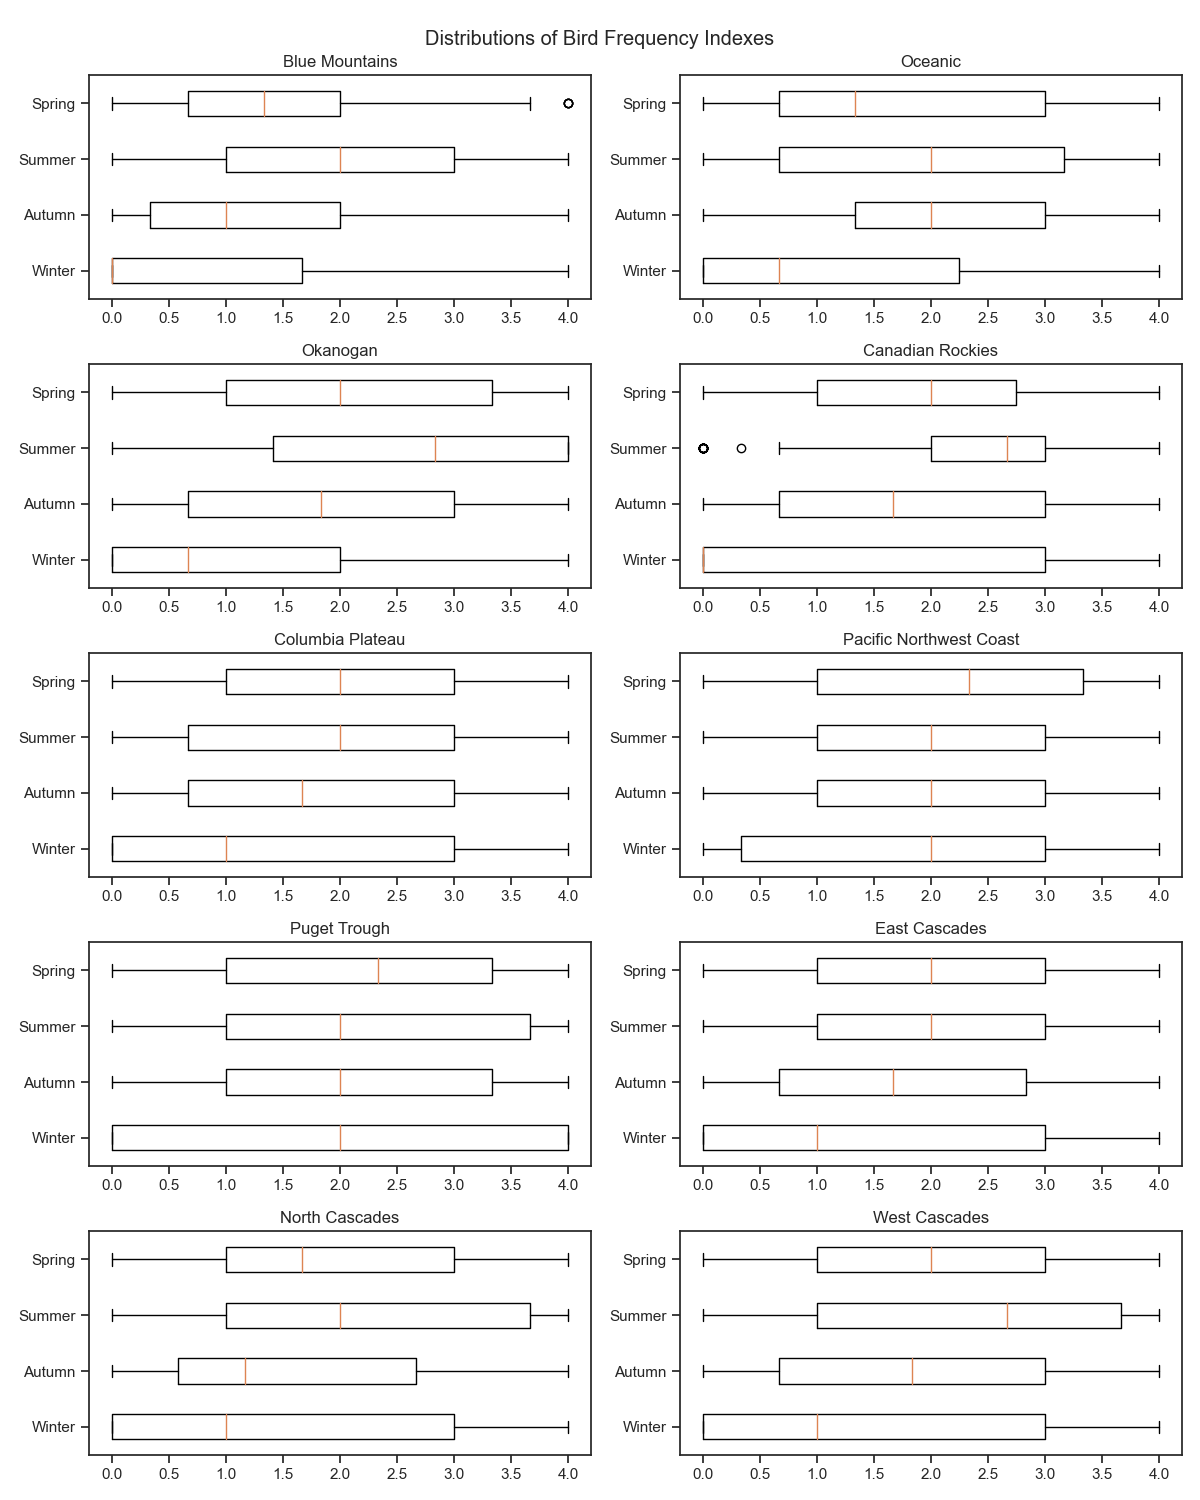
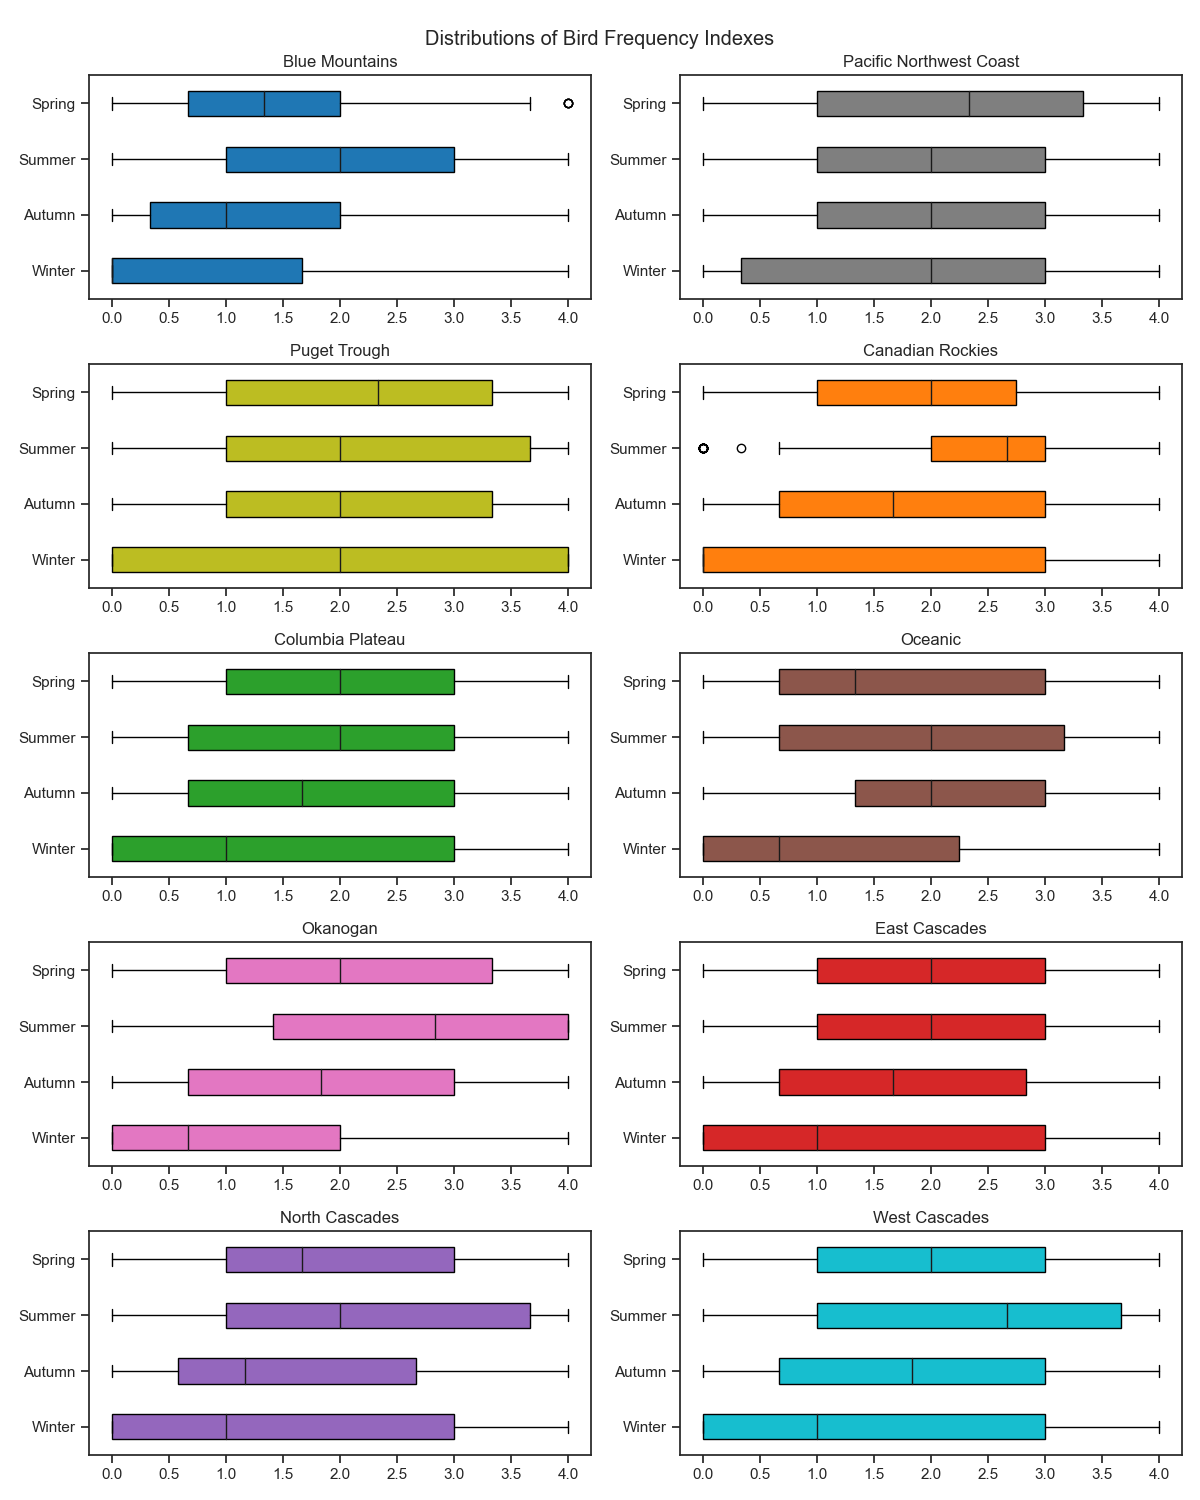
colored boxplot

diff --git a/src/bird_and_diet_diversity.py b/src/bird_and_diet_diversity.py
@@ -9,7 +9,7 @@ import matplotlib.pyplot as plt
 import seaborn as sns
 import math
 import numpy as np
-from utils.constants import MONTHS, ABUNDANCES, SEASONS
+from utils.constants import MONTHS, ABUNDANCES, SEASONS, ECOREGIONS
 
 BIRD_LOCS = 'data/bird-locations.csv'
 BIRD_DIETS = 'data/bird-diets-by-order.csv'
@@ -184,37 +184,44 @@ def plot_seasonal_bird_diversity(locations: pd.DataFrame) -> None:
 
 
 def plot_bfi_box_plot(locations: pd.DataFrame) -> None:
+    """
+    Accepts an input DataFrame of birds and their locational abundances
+    and plots distributions of bird frequency indexes in each
+    ecoregion in each season. Saves this chart as
+    "seasonal_bfi_boxplots.png".
+    """
     plt.clf()
-
     fig, ax = plt.subplots(5, 2, figsize=(12, 15))
 
-    # fill box plots with colors that match their line graph counterparts for continuity
+    # fill box plots with colors that match their
+    # line graph counterparts for continuity
     matching_colors = {
-        'blue_mountains': 'blue',
-        'canadian_rockies': 'orange',
-        'columbia_plateau': 'green',
-        'east_cascades': 'red',
-        'north_cascades': 'purple',
-        'oceanic': 'brown',
-        'okanogan': 'pink',
-        'pacific_northwest_coast': 'gray',
-        'puget_trough': 'olive',
-        'west_cascades': 'cyan'
+        'blue_mountains': '#1f77b4',
+        'canadian_rockies': '#ff7f0e',
+        'columbia_plateau': '#2ca02c',
+        'east_cascades': '#d62728',
+        'north_cascades': '#9467bd',
+        'oceanic': '#8c564b',
+        'okanogan': '#e377c2',
+        'pacific_northwest_coast': '#7f7f7f',
+        'puget_trough': '#bcbd22',
+        'west_cascades': '#17becf'
     }
 
-    for idx, ecoregion in enumerate(locations['ecoregion'].sort_values().drop_duplicates()):
+    for idx, ecoregion in enumerate(ECOREGIONS):
         filtered = locations[locations['ecoregion'] == ecoregion]
-
         this_ax = ax[idx % 5, idx % 2]
-        this_ax.boxplot(filtered.loc[:, ['wi_freq', 'au_freq', 'su_freq', 'sp_freq']], vert=False, labels=['Winter', 'Autumn', 'Summer', 'Spring'])
+
+        boxprops = {'facecolor': matching_colors[ecoregion]}
+
+        this_ax.boxplot(filtered.loc[:, ['wi_freq', 'au_freq',
+                                         'su_freq', 'sp_freq']],
+                        vert=False, labels=['Winter', 'Autumn',
+                                            'Summer', 'Spring'],
+                        patch_artist=True, boxprops=boxprops,
+                        medianprops={'color': 'k'})
+
         this_ax.set_title(ecoregion.replace('_', ' ').title())
-    
-        # fill boxes
-        # for bplot in bplots:
-        #     for patch in bplot['boxes']:
-        #         patch.set_facecolor(matching_colors['ecoregion'])
-
-
 
     fig.suptitle("Distributions of Bird Frequency Indexes")
     fig.tight_layout()
@@ -229,10 +236,9 @@ def main() -> None:
     locations = compute_bird_frequencies(locations)
     diets = pd.read_csv(BIRD_DIETS)
 
-
+    plot_seasonal_bird_diversity(locations)
+    plot_seasonal_diet_diversity(locations, diets)
     plot_bfi_box_plot(locations)
-    # plot_seasonal_bird_diversity(locations)
-    # plot_seasonal_diet_diversity(locations, diets)
 
 
 if __name__ == '__main__':

diff --git a/src/utils/constants.py b/src/utils/constants.py
@@ -11,16 +11,16 @@ from enum import Enum
 
 
 ECOREGIONS = [
-    'oceanic',
+    'blue_mountains',
+    'canadian_rockies',
+    'columbia_plateau',
+    'east_cascades',
+    'north_cascades',
     'pacific_northwest_coast',
     'puget_trough',
-    'north_cascades',
-    'west_cascades',
-    'east_cascades',
+    'oceanic',
     'okanogan',
-    'canadian_rockies',
-    'blue_mountains',
-    'columbia_plateau'
+    'west_cascades',
 ]
 
 MONTHS = [
